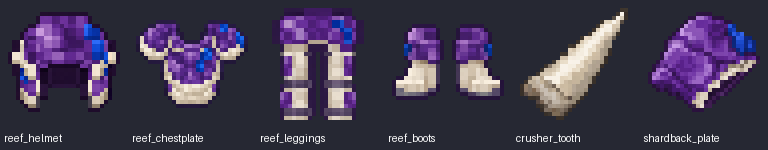
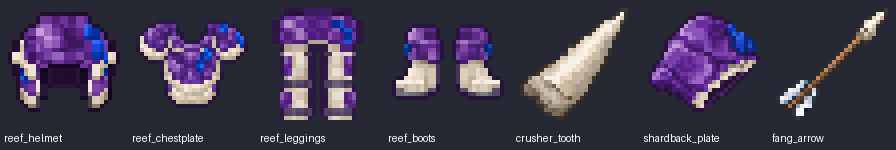
Add fang arrow ammunition and iron armor upgrade recipes with gear tooltips

diff --git a/src/equipmentTest/java/com/nhat/tidal_terror/gametest/ReefEquipmentTests.java b/src/equipmentTest/java/com/nhat/tidal_terror/gametest/ReefEquipmentTests.java
@@ -25,6 +25,63 @@ import net.minecraftforge.gametest.*;
 @GameTestHolder("tidalterror") @PrefixGameTestTemplate(false)
 public final class ReefEquipmentTests {
     @GameTest(template="reef_life_pool",timeoutTicks=100)
+    public static void fangArrowBleedsOnLandRejectsBlockedHitsAndPersistsPickup(GameTestHelper h) throws Exception {
+        var p=h.makeMockSurvivalPlayer(); var t=h.spawn(EntityType.COW,10,10,8);t.setNoAi(true);t.setNoGravity(true);
+        t.getAttribute(Attributes.MAX_HEALTH).setBaseValue(100);t.setHealth(100);
+        var arrow=ModEquipment.FANG_ARROW.get().createArrow(h.getLevel(),new ItemStack(ModEquipment.FANG_ARROW.get()),p);
+        h.assertTrue(!t.isInWater(),"Arrow fixture must test dry land"); arrow.setDeltaMovement(1,0,0);
+        var hit=net.minecraft.world.entity.projectile.AbstractArrow.class.getDeclaredMethod("onHitEntity",net.minecraft.world.phys.EntityHitResult.class);hit.setAccessible(true);
+        hit.invoke(arrow,new net.minecraft.world.phys.EntityHitResult(t));
+        var bleed=t.getEffect(ModEffects.REEF_BLEEDING.get());
+        h.assertTrue(bleed!=null&&bleed.getDuration()==80&&bleed.getAmplifier()==0&&!bleed.isVisible(),"Land hit lost base blood effect");
+        float health=t.getHealth();
+        var blocked=h.spawn(EntityType.COW,12,10,8);blocked.setNoAi(true);blocked.setInvulnerable(true);
+        var rejected=ModEquipment.FANG_ARROW.get().createArrow(h.getLevel(),new ItemStack(ModEquipment.FANG_ARROW.get()),p);rejected.setDeltaMovement(1,0,0);
+        hit.invoke(rejected,new net.minecraft.world.phys.EntityHitResult(blocked));
+        h.assertTrue(!blocked.hasEffect(ModEffects.REEF_BLEEDING.get()),"Rejected arrow hit caused bleeding");
+        var saved=ModEquipment.FANG_ARROW.get().createArrow(h.getLevel(),new ItemStack(ModEquipment.FANG_ARROW.get()),p);
+        saved.setPierceLevel((byte)2);var nbt=new CompoundTag();saved.save(nbt);nbt.putBoolean("inGround",true);nbt.putByte("shake",(byte)0);
+        var loaded=(net.minecraft.world.entity.projectile.AbstractArrow)EntityType.create(nbt,h.getLevel()).orElseThrow();
+        h.assertTrue(loaded instanceof com.nhat.tidal_terror.entities.FangArrowEntity&&loaded.getPierceLevel()==2,"Saved fang arrow lost identity/piercing");
+        loaded.pickup=net.minecraft.world.entity.projectile.AbstractArrow.Pickup.ALLOWED;loaded.playerTouch(p);
+        h.assertTrue(p.getInventory().countItem(ModEquipment.FANG_ARROW.get())==1,"Embedded arrow did not return fang ammunition");
+        h.runAfterDelay(85,()->{near(h,t.getHealth(),health-2,"Arrow base bleed total on dry land");h.succeed();});
+    }
+    @GameTest(template="reef_life_pool",timeoutTicks=40)
+    public static void nativeBowsCrossbowsAndForgeBowSubclassFireFangAmmo(GameTestHelper h) {
+        for(var weapon:List.of(Items.BOW,Items.CROSSBOW,TestBowRegistration.BOW)) {
+            var p=net.minecraftforge.common.util.FakePlayerFactory.get(h.getLevel(),new com.mojang.authlib.GameProfile(UUID.randomUUID(),"FangBowTest"));var pos=h.absolutePos(new BlockPos(8,10,8));p.setPos(pos.getX(),pos.getY(),pos.getZ());
+            var stack=new ItemStack(weapon);p.setItemSlot(EquipmentSlot.MAINHAND,stack);p.getInventory().add(new ItemStack(ModEquipment.FANG_ARROW.get(),8));
+            h.assertTrue(((ProjectileWeaponItem)weapon).getAllSupportedProjectiles().test(new ItemStack(ModEquipment.FANG_ARROW.get())),"Weapon rejected arrow ammunition tag");
+            h.assertTrue(p.getProjectile(stack).is(ModEquipment.FANG_ARROW.get()),"Native ammunition selection failed");
+            for(var e:List.of(com.nhat.tidal_terror.enchantments.ModEnchantments.SERRATION.get(),com.nhat.tidal_terror.enchantments.ModEnchantments.HEMORRHAGE.get()))
+                h.assertTrue(!e.canEnchant(stack)&&!e.canEnchant(new ItemStack(ModEquipment.FANG_ARROW.get())),"Bleeding enchantment accepted ranged gear");
+            if(weapon instanceof CrossbowItem bow) {
+                bow.releaseUsing(stack,h.getLevel(),p,bow.getUseDuration(stack)-CrossbowItem.getChargeDuration(stack));
+                h.assertTrue(CrossbowItem.isCharged(stack)&&CrossbowItem.containsChargedProjectile(stack,ModEquipment.FANG_ARROW.get()),"Crossbow did not load fang ammunition");
+                CrossbowItem.performShooting(h.getLevel(),p,net.minecraft.world.InteractionHand.MAIN_HAND,stack,3.15F,0);
+            } else ((BowItem)weapon).releaseUsing(stack,h.getLevel(),p,weapon.getUseDuration(stack)-20);
+            var arrows=h.getLevel().getEntitiesOfClass(com.nhat.tidal_terror.entities.FangArrowEntity.class,new net.minecraft.world.phys.AABB(pos).inflate(5)).stream().filter(a->a.getOwner()==p).toList();
+            h.assertTrue(arrows.size()==1&&arrows.get(0).getDeltaMovement().length()>2,"Weapon did not fire a native fang arrow");
+            h.assertTrue(p.getInventory().countItem(ModEquipment.FANG_ARROW.get())==7,"Special arrow did not consume one ammunition");arrows.forEach(Entity::discard);
+        }
+        h.succeed();
+    }
+    @GameTest(template="reef_life_pool",timeoutTicks=40)
+    public static void gearTooltipsAndNativeMaterialAnvilRepair(GameTestHelper h) {
+        for(var item:List.of(ModEquipment.REEF_SPEAR.get(),ModEquipment.REEF_HELMET.get(),ModEquipment.REEF_CHESTPLATE.get(),ModEquipment.REEF_LEGGINGS.get(),ModEquipment.REEF_BOOTS.get())) {
+            var stack=new ItemStack(item);stack.setDamageValue(100);var text=new ArrayList<net.minecraft.network.chat.Component>();
+            item.appendHoverText(stack,h.getLevel(),text,TooltipFlag.NORMAL);h.assertTrue(text.size()==(item instanceof ReefSpearItem?3:2),"Gear lost mechanic/repair tooltip");
+            var p=net.minecraftforge.common.util.FakePlayerFactory.get(h.getLevel(),new com.mojang.authlib.GameProfile(UUID.randomUUID(),"ReefRepairTest"));var anvil=new net.minecraft.world.inventory.AnvilMenu(0,p.getInventory());
+            anvil.getSlot(0).set(stack);anvil.getSlot(1).set(new ItemStack(item instanceof ReefSpearItem?ModEquipment.CRUSHER_TOOTH.get():ModEquipment.SHARDBACK_PLATE.get()));anvil.createResult();
+            var repaired=anvil.getSlot(2).getItem();h.assertTrue(repaired.is(item)&&repaired.getDamageValue()<100,"Native material anvil repair failed");
+        }
+        var recipe=(ShapedRecipe)h.getLevel().getRecipeManager().byKey(new ResourceLocation("tidalterror","fang_arrow")).orElseThrow();
+        var p=net.minecraftforge.common.util.FakePlayerFactory.get(h.getLevel(),new com.mojang.authlib.GameProfile(UUID.randomUUID(),"FangRecipeTest"));var grid=new TransientCraftingContainer(p.inventoryMenu,3,3);grid.setItem(0,new ItemStack(ModEquipment.CRUSHER_TOOTH.get()));grid.setItem(3,new ItemStack(Items.STICK));grid.setItem(6,new ItemStack(Items.FEATHER));
+        var result=recipe.assemble(grid,h.getLevel().registryAccess());h.assertTrue(recipe.matches(grid,h.getLevel())&&result.is(ModEquipment.FANG_ARROW.get())&&result.getCount()==4,"Fang arrow recipe failed");h.succeed();
+    }
+
+    @GameTest(template="reef_life_pool",timeoutTicks=100)
     public static void crusherBitesBleedOnlyAfterAcceptedDamage(GameTestHelper h) {
         pool(h);var victim=target(h);
         var shark=h.spawn(ModEntities.CORAL_CRUSHER.get(),8,4,8);shark.setNoAi(true);shark.setNoGravity(true);
@@ -52,14 +109,14 @@ public final class ReefEquipmentTests {
                 h.assertTrue(book.isPresent(),"Missing creative spear book level "+expected);
                 var lines=new ArrayList<net.minecraft.network.chat.Component>();
                 net.minecraftforge.common.MinecraftForge.EVENT_BUS.post(new net.minecraftforge.event.entity.player.ItemTooltipEvent(book.get(),h.makeMockSurvivalPlayer(),lines,TooltipFlag.Default.NORMAL));
-                h.assertTrue(lines.size()==2,"Book lost its bonus/applicability tooltip");
+                h.assertTrue(lines.size()==1,"Book must contain only its general bonus explanation");
                 var bonus=(net.minecraft.network.chat.contents.TranslatableContents)lines.get(0).getContents();
                 String key=enchantment==com.nhat.tidal_terror.enchantments.ModEnchantments.SERRATION.get()?"tooltip.tidalterror.serration_book":"tooltip.tidalterror.hemorrhage_book";
                 h.assertTrue(bonus.getKey().equals(key),"Wrong book explanation");
                 near(h,((Number)bonus.getArgs()[0]).doubleValue(),enchantment==com.nhat.tidal_terror.enchantments.ModEnchantments.SERRATION.get()?.5*expected:2*expected,"Book bonus did not reflect its level");
             }
         }
-        h.assertTrue(count==5&&tab.getDisplayItems().size()==24,"Wrong creative book/equipment count");h.succeed();
+        h.assertTrue(count==5&&tab.getDisplayItems().size()==25,"Wrong creative book/equipment count");h.succeed();
     }
     @GameTest(template="reef_life_pool",timeoutTicks=180)
     public static void enchantedBleedingScalesAndKeepsChargedWaterGate(GameTestHelper h) {
@@ -178,7 +235,7 @@ public final class ReefEquipmentTests {
                 var ingredient=recipe.getIngredients().get(y*recipe.getWidth()+x);
                 if(ingredient.isEmpty())continue;
                 ItemStack sample=ingredient.getItems()[0].copy();int index=y*3+x;grid.setItem(index,sample);
-                if(sample.is(Items.IRON_INGOT))iron=index;
+                if(sample.is(entry.getKey().equals("reef_spear")?Items.IRON_INGOT:switch(entry.getKey()){case "reef_helmet"->Items.IRON_HELMET;case "reef_chestplate"->Items.IRON_CHESTPLATE;case "reef_leggings"->Items.IRON_LEGGINGS;default->Items.IRON_BOOTS;}))iron=index;
                 if(ingredient.test(new ItemStack(Items.DEAD_TUBE_CORAL_BLOCK)))coral=index;
             }
             h.assertTrue(iron>=0&&coral>=0,"Missing iron/coral gate in "+entry.getKey());

diff --git a/tools/create_equipment_resources.py b/tools/create_equipment_resources.py
@@ -25,15 +25,16 @@ for mob, material in [('coral_crusher','crusher_tooth'), ('shardback','shardback
 
 recipes={
     'reef_spear':([' T ',' LI',' C '], 'crusher_tooth'),
-    'reef_helmet':(['PPP','ICI'], 'shardback_plate'),
-    'reef_chestplate':(['P P','PCP','PIP'], 'shardback_plate'),
-    'reef_leggings':(['PCP','PIP','P P'], 'shardback_plate'),
-    'reef_boots':(['P P','ICI'], 'shardback_plate'),
+    'reef_helmet':([' P ','PAP',' C '], 'shardback_plate'),
+    'reef_chestplate':([' P ','PAP',' C '], 'shardback_plate'),
+    'reef_leggings':([' P ','PAP',' C '], 'shardback_plate'),
+    'reef_boots':([' P ','PAP',' C '], 'shardback_plate'),
 }
 ingredients={'T':{'item':'tidalterror:crusher_tooth'},'P':{'item':'tidalterror:shardback_plate'},
              'C':{'tag':'tidalterror:coral_skeletons'},'I':{'item':'minecraft:iron_ingot'},'L':{'item':'minecraft:leather'}}
 for name,(pattern,unlock) in recipes.items():
     symbols=set(''.join(pattern)) - {' '}
+    if name != 'reef_spear': ingredients['A']={'item':'minecraft:iron_'+name.removeprefix('reef_')}
     write(f'data/tidalterror/recipes/{name}.json',{'type':'minecraft:crafting_shaped','category':'equipment',
         'pattern':pattern,'key':{s:ingredients[s] for s in sorted(symbols)},'result':{'item':'tidalterror:'+name}})
     write(f'data/tidalterror/advancements/recipes/equipment/{name}.json',{
@@ -42,7 +43,11 @@ for name,(pattern,unlock) in recipes.items():
             'has_the_recipe':{'trigger':'minecraft:recipe_unlocked','conditions':{'recipe':'tidalterror:'+name}}},
         'requirements':[['has_material','has_the_recipe']], 'rewards':{'recipes':['tidalterror:'+name]}})
 
-for name in ('crusher_tooth','shardback_plate','reef_helmet','reef_chestplate','reef_leggings','reef_boots'):
+write('data/tidalterror/recipes/fang_arrow.json', {'type':'minecraft:crafting_shaped','category':'equipment','pattern':['T','S','F'],'key':{'T':{'item':'tidalterror:crusher_tooth'},'S':{'item':'minecraft:stick'},'F':{'item':'minecraft:feather'}},'result':{'item':'tidalterror:fang_arrow','count':4}})
+write('data/minecraft/tags/items/arrows.json',{'replace':False,'values':['tidalterror:fang_arrow']})
+write('data/tidalterror/advancements/recipes/equipment/fang_arrow.json',{'parent':'minecraft:recipes/root','criteria':{'has_material':{'trigger':'minecraft:inventory_changed','conditions':{'items':[{'items':['tidalterror:crusher_tooth']}]}},'has_the_recipe':{'trigger':'minecraft:recipe_unlocked','conditions':{'recipe':'tidalterror:fang_arrow'}}},'requirements':[['has_material','has_the_recipe']],'rewards':{'recipes':['tidalterror:fang_arrow']}})
+
+for name in ('fang_arrow','crusher_tooth','shardback_plate','reef_helmet','reef_chestplate','reef_leggings','reef_boots'):
     write(f'assets/tidalterror/models/item/{name}.json',{'parent':'minecraft:item/generated','textures':{'layer0':'tidalterror:item/'+name}})
 # Native spear model in-hand; exported native icon in inventory using Forge's separate transforms.
 write('assets/tidalterror/models/item/reef_spear.json',{
@@ -67,7 +72,13 @@ lang['enchantment.tidalterror.serration']='Serration'
 lang['enchantment.tidalterror.hemorrhage']='Hemorrhage'
 lang['tooltip.tidalterror.serration_book']='+%s damage per bleeding pulse'
 lang['tooltip.tidalterror.hemorrhage_book']='+%s seconds of bleeding (%s seconds total)'
-lang['tooltip.tidalterror.spear_book']='Reef Spear: fully charged underwater hits only'
-lang['tooltip.tidalterror.reef_armor']='5% less knockback per piece while grounded underwater'
+lang.pop('tooltip.tidalterror.spear_book',None)
+lang['item.tidalterror.fang_arrow']='Fang Arrow'
+lang['entity.tidalterror.fang_arrow']='Fang Arrow'
+lang['tooltip.tidalterror.fang_arrow']='Hits cause 2 bleeding damage over 4 seconds, on land or in water'
+lang['tooltip.tidalterror.reef_spear_refresh']='You and the target must be in water; repeat hits refresh one bleed'
+lang['tooltip.tidalterror.reef_spear_repair']='Repair with Crusher Teeth'
+lang['tooltip.tidalterror.reef_armor_repair']='Repair with Shardback Plates'
+lang['tooltip.tidalterror.reef_armor']='Grounded underwater: 5% less knockback per piece (20% full set)'
 write(path.relative_to(RES),lang)
 print('Equipment acquisition, recipes, unlocks, language and models generated')

diff --git a/src/equipmentPreview/java/com/nhat/tidal_terror/preview/EquipmentPreview.java b/src/equipmentPreview/java/com/nhat/tidal_terror/preview/EquipmentPreview.java
@@ -138,7 +138,8 @@ public final class EquipmentPreview {
                     future=CompletableFuture.runAsync(()->server.overworld().getEntity(bloodTarget).discard(),server);
                     MC.options.hideGui=false;
                     MC.setScreen(new net.minecraft.client.gui.screens.inventory.InventoryScreen(MC.player));
-                } else if(stage==7) MC.setScreen(new BookBoard());
+                } else if(stage==7) {MC.resizeDisplay();MC.setScreen(new BookBoard());}
+                else if(stage==8) MC.setScreen(new GearBoard());
                 ready=System.nanoTime();frames=0;
             }
         }catch(Throwable error){fail(error);}
@@ -169,17 +170,27 @@ public final class EquipmentPreview {
                 if(!(particle instanceof com.nhat.tidal_terror.client.BloodParticle))throw new IllegalStateException("Blood particle provider missing after reload");
                 particleChecked=true;
             }
-            String file=new String[]{"01-native-orthographic.png","02-underwater-first-person.png","03-underwater-offhand.png","04-creative-equipment.png","05-reload-and-glint.png","06-blood-particles.png","07-jei-inventory.png","08-book-tooltips.png"}[stage];
+            String file=new String[]{"01-native-orthographic.png","02-underwater-first-person.png","03-underwater-offhand.png","04-creative-equipment.png","05-reload-and-glint.png","06-blood-particles.png","07-jei-inventory.png","08-book-tooltips.png","09-gear-tooltips.png"}[stage];
             try(var image=Screenshot.takeScreenshot(MC.getMainRenderTarget())){image.writeToFile(OUT.resolve(file));}
             CAPTURES.add(file);System.out.println("REEF_EQUIPMENT_PREVIEW CAPTURE "+file);
             stage++;ready=0;
-            if(stage==8) {
-                Files.writeString(OUT.resolve("passed.txt"),"Native worn armor, forward held spear, first person, creative items, resource reload, glint, registered blood particle, JEI inventory, book tooltips; isolated world\n"+String.join("\n",CAPTURES));
+            if(stage==9) {
+                Files.writeString(OUT.resolve("passed.txt"),"Native worn armor, forward held spear, first person, creative items, resource reload, glint, registered blood particle, JEI inventory, general book tooltips, gear/arrow tooltips; isolated world\n"+String.join("\n",CAPTURES));
                 System.out.println("REEF_EQUIPMENT_PREVIEW PASS eight actual framebuffer captures");done=true;MC.stop();
             }
         }catch(Throwable error){fail(error);}
     }
 
+    private static final class GearBoard extends Screen {
+        GearBoard() { super(Component.literal("Reef gear mechanics")); }
+        @Override public boolean isPauseScreen() { return false; }
+        @Override public void render(GuiGraphics g,int mouseX,int mouseY,float partialTick) {
+            g.fill(0,0,width,height,0xFFDDDCE4);
+            g.drawCenteredString(font,"REEF GEAR - ACTUAL NATIVE TOOLTIPS",width/2,16,0xFF30263C);
+            var items=new Item[]{ModEquipment.REEF_SPEAR.get(),ModEquipment.REEF_BOOTS.get(),ModEquipment.FANG_ARROW.get()};
+            for(int i=0;i<3;i++) {int y=60+i*100;var stack=new ItemStack(items[i]);g.renderItem(stack,30,y);g.renderTooltip(font,stack,60,y);}
+        }
+    }
     private static final class BookBoard extends Screen {
         BookBoard() { super(Component.literal("Spear Enchantment Books")); }
         @Override public boolean isPauseScreen() { return false; }

diff --git a/src/reefTest/java/com/nhat/tidal_terror/worldgen/ReefNativeAudit.java b/src/reefTest/java/com/nhat/tidal_terror/worldgen/ReefNativeAudit.java
@@ -205,9 +205,9 @@ public final class ReefNativeAudit {
             var expectedItems=Set.of("coral_crusher_spawn_egg","cathedral_ray_spawn_egg","veilglow_spawn_egg","shardback_spawn_egg",
                     "raw_coral_crusher_steak","cooked_coral_crusher_steak","raw_cathedral_ray_wing","cooked_cathedral_ray_wing",
                     "raw_veilglow_gel","cooked_veilglow_gel","raw_shardback_claw","cooked_shardback_claw",
-                    "crusher_tooth","shardback_plate","reef_spear","reef_helmet","reef_chestplate","reef_leggings","reef_boots","enchanted_book");
+                    "crusher_tooth","shardback_plate","fang_arrow","reef_spear","reef_helmet","reef_chestplate","reef_leggings","reef_boots","enchanted_book");
             var actualItems=tab.getDisplayItems().stream().map(stack -> net.minecraftforge.registries.ForgeRegistries.ITEMS.getKey(stack.getItem()).getPath()).collect(java.util.stream.Collectors.toSet());
-            require(tab.getDisplayItems().size()==24 && actualItems.equals(expectedItems),"Wrong creative tab contents: "+actualItems);
+            require(tab.getDisplayItems().size()==25 && actualItems.equals(expectedItems),"Wrong creative tab contents: "+actualItems);
             require(!net.minecraftforge.registries.ForgeRegistries.ITEMS.containsKey(new net.minecraft.resources.ResourceLocation("tidalterror","example_item")),"Template item remains");
             require(!net.minecraftforge.registries.ForgeRegistries.BLOCKS.containsKey(new net.minecraft.resources.ResourceLocation("tidalterror","example_block")),"Template block remains");
             require(tab.getDisplayItems().stream().filter(stack -> stack.is(net.minecraft.world.item.Items.ENCHANTED_BOOK)).count()==5,"Missing spear enchantment book levels");

diff --git a/src/main/java/com/nhat/tidal_terror/entities/FangArrowEntity.java b/src/main/java/com/nhat/tidal_terror/entities/FangArrowEntity.java
@@ -1,0 +1,28 @@
+package com.nhat.tidal_terror.entities;
+
+import com.nhat.tidal_terror.effects.ModEffects;
+import com.nhat.tidal_terror.items.ModEquipment;
+import com.nhat.tidal_terror.particles.ModParticles;
+import net.minecraft.world.effect.MobEffectInstance;
+import net.minecraft.world.entity.EntityType;
+import net.minecraft.world.entity.LivingEntity;
+import net.minecraft.world.entity.projectile.AbstractArrow;
+import net.minecraft.world.item.ItemStack;
+import net.minecraft.world.level.Level;
+
+/** Native arrow physics, piercing, pickup and save behavior; bleed only after accepted damage. */
+public final class FangArrowEntity extends AbstractArrow {
+    public FangArrowEntity(EntityType<? extends FangArrowEntity> type, Level level) { super(type, level); }
+    public FangArrowEntity(Level level, LivingEntity shooter) { super(ModEntities.FANG_ARROW.get(), shooter, level); }
+    @Override protected void doPostHurtEffects(LivingEntity victim) {
+        super.doPostHurtEffects(victim);
+        if (!level().isClientSide && victim.isAlive()) {
+            victim.addEffect(new MobEffectInstance(ModEffects.REEF_BLEEDING.get(), 80, 0, false, false, true));
+            ModParticles.bleed(victim, 12);
+        }
+    }
+    @Override public net.minecraft.network.protocol.Packet<net.minecraft.network.protocol.game.ClientGamePacketListener> getAddEntityPacket() {
+        return net.minecraftforge.network.NetworkHooks.getEntitySpawningPacket(this);
+    }
+    @Override protected ItemStack getPickupItem() { return new ItemStack(ModEquipment.FANG_ARROW.get()); }
+}

diff --git a/tools/export_reef_sprites.py b/tools/export_reef_sprites.py
@@ -42,6 +42,17 @@ def main():
     effect = Image.new('RGBA', (18,18))
     effect.alpha_composite(Image.open(folder/'blood_0.png'), (1,1))
     effect.save(RES/'textures/mob_effect/reef_bleeding.png')
-    print('Exported six transparent 64px sprites, three native blood particle frames, status icon and preview.')
+    # Native ArrowRenderer UV layout: crossed 16x5 shaft faces and 5x5 rear cap.
+    # Authored directly at its native 32px resolution, using the generated item palette.
+    arrow = Image.new('RGBA',(32,32)); draw = ImageDraw.Draw(arrow)
+    draw.rectangle((3,2,14,2), fill=(145,99,58,255))
+    draw.rectangle((12,1,15,3), fill=(223,229,231,255))
+    draw.rectangle((11,2,15,2), fill=(151,102,60,255))
+    draw.polygon([(0,2),(3,0),(3,4)],fill=(232,221,198,255))
+    draw.point((0,2),fill=(255,245,226,255)); draw.line((3,3,5,3),fill=(112,96,75,255))
+    draw.rectangle((0,5,4,9),fill=(204,211,219,255))
+    draw.rectangle((1,6,3,8),fill=(238,241,241,255));draw.point((2,7),fill=(145,99,58,255))
+    (RES/'textures/entity').mkdir(exist_ok=True);arrow.save(RES/'textures/entity/fang_arrow.png')
+    print(f'Exported {len(entries)} transparent 64px sprites, native arrow UV and blood resources.')
 
 if __name__ == '__main__': main()

diff --git a/src/main/java/com/nhat/tidal_terror/items/FangArrowItem.java b/src/main/java/com/nhat/tidal_terror/items/FangArrowItem.java
@@ -1,0 +1,21 @@
+package com.nhat.tidal_terror.items;
+
+import java.util.List;
+import javax.annotation.Nullable;
+import net.minecraft.ChatFormatting;
+import net.minecraft.network.chat.Component;
+import net.minecraft.world.entity.LivingEntity;
+import net.minecraft.world.entity.projectile.AbstractArrow;
+import net.minecraft.world.item.*;
+import net.minecraft.world.level.Level;
+
+/** Standard ArrowItem factory used by native and Forge-compatible ranged weapons. */
+public final class FangArrowItem extends ArrowItem {
+    public FangArrowItem() { super(new Properties()); }
+    @Override public AbstractArrow createArrow(Level level, ItemStack stack, LivingEntity shooter) {
+        return new com.nhat.tidal_terror.entities.FangArrowEntity(level, shooter);
+    }
+    @Override public void appendHoverText(ItemStack stack, @Nullable Level level, List<Component> text, TooltipFlag flags) {
+        text.add(Component.translatable("tooltip.tidalterror.fang_arrow").withStyle(ChatFormatting.AQUA));
+    }
+}

diff --git a/src/main/java/com/nhat/tidal_terror/items/ReefSpearItem.java b/src/main/java/com/nhat/tidal_terror/items/ReefSpearItem.java
@@ -71,6 +71,8 @@ public final class ReefSpearItem extends Item {
         int power = net.minecraft.util.Mth.clamp(EnchantmentHelper.getItemEnchantmentLevel(com.nhat.tidal_terror.enchantments.ModEnchantments.SERRATION.get(), stack), 0, 3);
         int extension = net.minecraft.util.Mth.clamp(EnchantmentHelper.getItemEnchantmentLevel(com.nhat.tidal_terror.enchantments.ModEnchantments.HEMORRHAGE.get(), stack), 0, 2);
         text.add(Component.translatable("tooltip.tidalterror.reef_spear", (2 + extension) * (1 + .5F * power), 4 + 2 * extension).withStyle(ChatFormatting.AQUA));
+        text.add(Component.translatable("tooltip.tidalterror.reef_spear_refresh").withStyle(ChatFormatting.GRAY));
+        text.add(Component.translatable("tooltip.tidalterror.reef_spear_repair").withStyle(ChatFormatting.GRAY));
     }
     @Override public void initializeClient(Consumer<IClientItemExtensions> consumer) {
         consumer.accept(com.nhat.tidal_terror.client.ReefEquipmentClient.spear());

diff --git a/src/equipmentTest/java/com/nhat/tidal_terror/gametest/TestBowRegistration.java b/src/equipmentTest/java/com/nhat/tidal_terror/gametest/TestBowRegistration.java
@@ -1,0 +1,21 @@
+package com.nhat.tidal_terror.gametest;
+
+import net.minecraft.resources.ResourceLocation;
+import net.minecraft.world.item.BowItem;
+import net.minecraft.world.item.Item;
+import net.minecraftforge.eventbus.api.SubscribeEvent;
+import net.minecraftforge.fml.common.Mod;
+import net.minecraftforge.registries.ForgeRegistries;
+import net.minecraftforge.registries.RegisterEvent;
+
+/** An actual registered third-party-style bow, only present in the opt-in test mod. */
+@Mod.EventBusSubscriber(modid="tidalterror", bus=Mod.EventBusSubscriber.Bus.MOD)
+public final class TestBowRegistration {
+    public static BowItem BOW;
+    @SubscribeEvent public static void register(RegisterEvent event) {
+        event.register(ForgeRegistries.Keys.ITEMS, new ResourceLocation("tidalterror", "fixture_bow"), () -> {
+            BOW = new BowItem(new Item.Properties().durability(384)) {};
+            return BOW;
+        });
+    }
+}

diff --git a/src/main/java/com/nhat/tidal_terror/items/ModEquipment.java b/src/main/java/com/nhat/tidal_terror/items/ModEquipment.java
@@ -8,6 +8,7 @@ import net.minecraftforge.registries.RegistryObject;
 public final class ModEquipment {
     public static final RegistryObject<Item> CRUSHER_TOOTH = TidalTerror.ITEMS.register("crusher_tooth", () -> new Item(new Item.Properties()));
     public static final RegistryObject<Item> SHARDBACK_PLATE = TidalTerror.ITEMS.register("shardback_plate", () -> new Item(new Item.Properties()));
+    public static final RegistryObject<FangArrowItem> FANG_ARROW = TidalTerror.ITEMS.register("fang_arrow", FangArrowItem::new);
     public static final RegistryObject<ReefSpearItem> REEF_SPEAR = TidalTerror.ITEMS.register("reef_spear", ReefSpearItem::new);
     public static final RegistryObject<ReefArmorItem> REEF_HELMET = armor("reef_helmet", ArmorItem.Type.HELMET);
     public static final RegistryObject<ReefArmorItem> REEF_CHESTPLATE = armor("reef_chestplate", ArmorItem.Type.CHESTPLATE);

diff --git a/src/main/java/com/nhat/tidal_terror/events/ReefEquipmentEvents.java b/src/main/java/com/nhat/tidal_terror/events/ReefEquipmentEvents.java
@@ -17,7 +17,6 @@ public final class ReefEquipmentEvents {
         if (power == 0 && duration == 0) return;
         if (power > 0) event.getToolTip().add(net.minecraft.network.chat.Component.translatable("tooltip.tidalterror.serration_book", .5F * power).withStyle(net.minecraft.ChatFormatting.AQUA));
         if (duration > 0) event.getToolTip().add(net.minecraft.network.chat.Component.translatable("tooltip.tidalterror.hemorrhage_book", 2 * duration, 4 + 2 * duration).withStyle(net.minecraft.ChatFormatting.AQUA));
-        event.getToolTip().add(net.minecraft.network.chat.Component.translatable("tooltip.tidalterror.spear_book").withStyle(net.minecraft.ChatFormatting.GRAY));
     }
     @SubscribeEvent public static void bloodTrail(net.minecraftforge.event.entity.living.LivingEvent.LivingTickEvent event) {
         var entity = event.getEntity();

diff --git a/src/main/java/com/nhat/tidal_terror/client/FangArrowRenderer.java b/src/main/java/com/nhat/tidal_terror/client/FangArrowRenderer.java
@@ -1,0 +1,12 @@
+package com.nhat.tidal_terror.client;
+
+import com.nhat.tidal_terror.entities.FangArrowEntity;
+import net.minecraft.client.renderer.entity.ArrowRenderer;
+import net.minecraft.client.renderer.entity.EntityRendererProvider;
+import net.minecraft.resources.ResourceLocation;
+
+public final class FangArrowRenderer extends ArrowRenderer<FangArrowEntity> {
+    private static final ResourceLocation TEXTURE = new ResourceLocation("tidalterror", "textures/entity/fang_arrow.png");
+    public FangArrowRenderer(EntityRendererProvider.Context context) { super(context); }
+    @Override public ResourceLocation getTextureLocation(FangArrowEntity arrow) { return TEXTURE; }
+}
